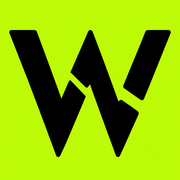
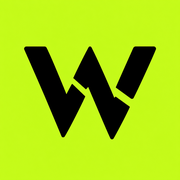
Update WODLY app branding assets

Changed region(s): [[0.0278, 0.1667, 0.9722, 0.8889]]

diff --git a/apps/web/components/brand/LogoMark.tsx b/apps/web/components/brand/LogoMark.tsx
@@ -1,3 +1,5 @@
+import Image from 'next/image';
+
 type Props = {
   className?: string;
 };
@@ -9,15 +11,28 @@ export default function LogoMark({
     <div
       aria-label="WODLY"
       className={[
-        'relative flex h-9 w-9 items-center justify-center',
+        'relative flex h-9 w-9 items-center justify-center overflow-hidden',
         className,
       ].join(' ')}
     >
-      <div className="absolute left-1 top-2 h-5 w-2 -skew-x-12 bg-foreground" />
-      <div className="absolute left-3.5 top-2 h-5 w-2 skew-x-12 bg-foreground" />
-      <div className="absolute right-1.5 top-2 h-5 w-2 -skew-x-12 bg-foreground" />
-
-      <div className="absolute bottom-1 right-0 h-2 w-2 rounded-sm bg-accent" />
+      <Image
+        src="/brand-mark-primary.png"
+        alt=""
+        aria-hidden="true"
+        width={1024}
+        height={1024}
+        className="h-full w-full object-contain dark:hidden"
+        priority
+      />
+      <Image
+        src="/brand-mark-inverted.png"
+        alt=""
+        aria-hidden="true"
+        width={1024}
+        height={1024}
+        className="hidden h-full w-full object-contain dark:block"
+        priority
+      />
     </div>
   );
 }
